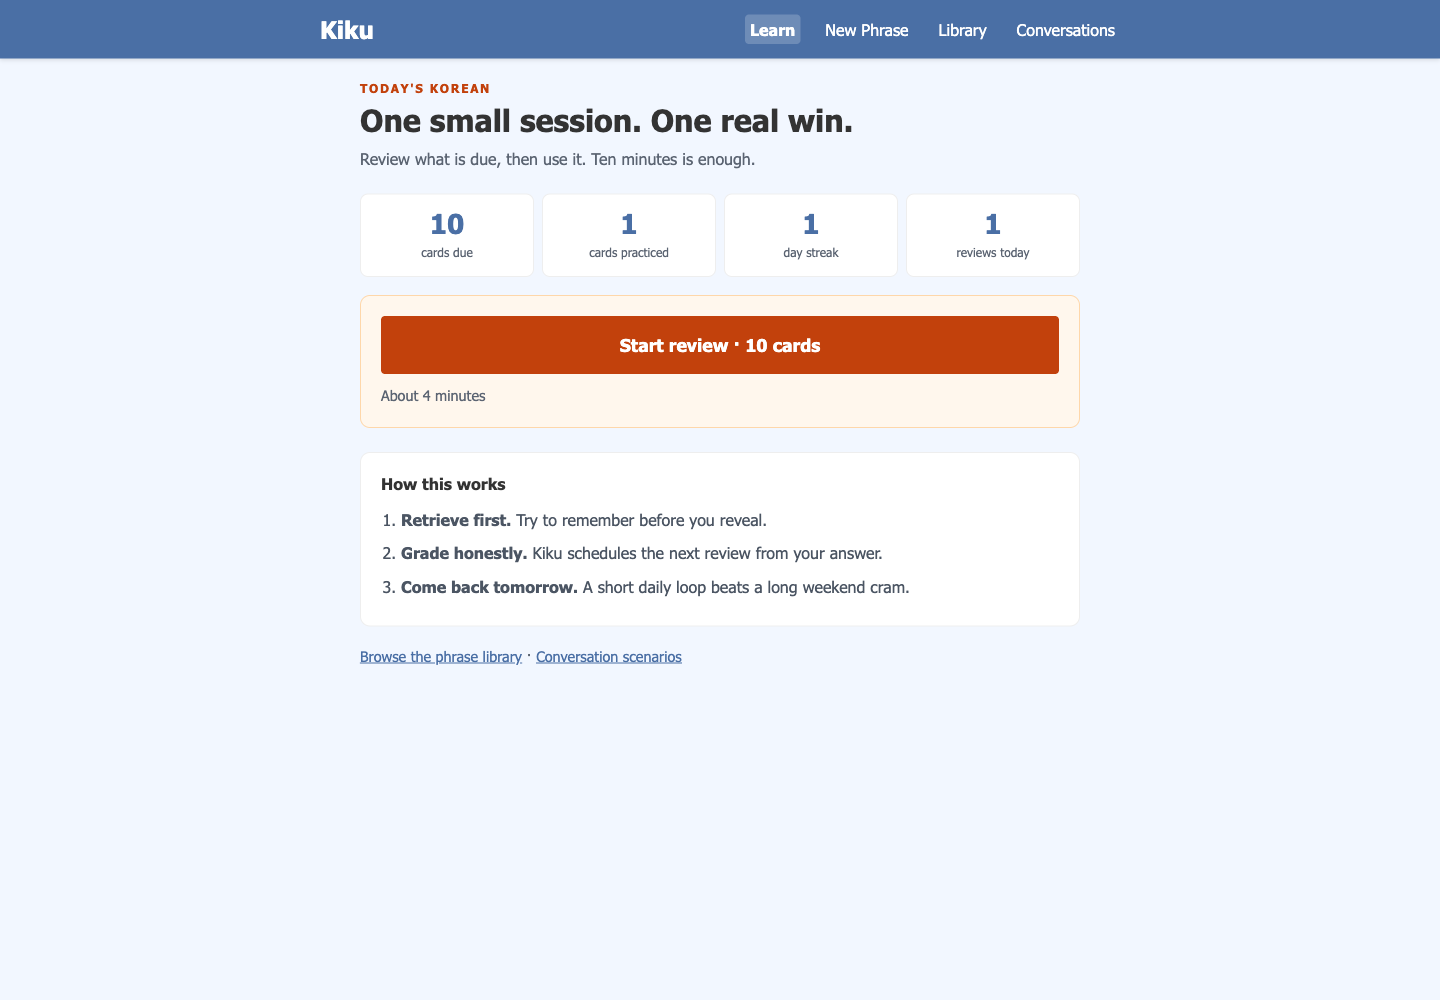
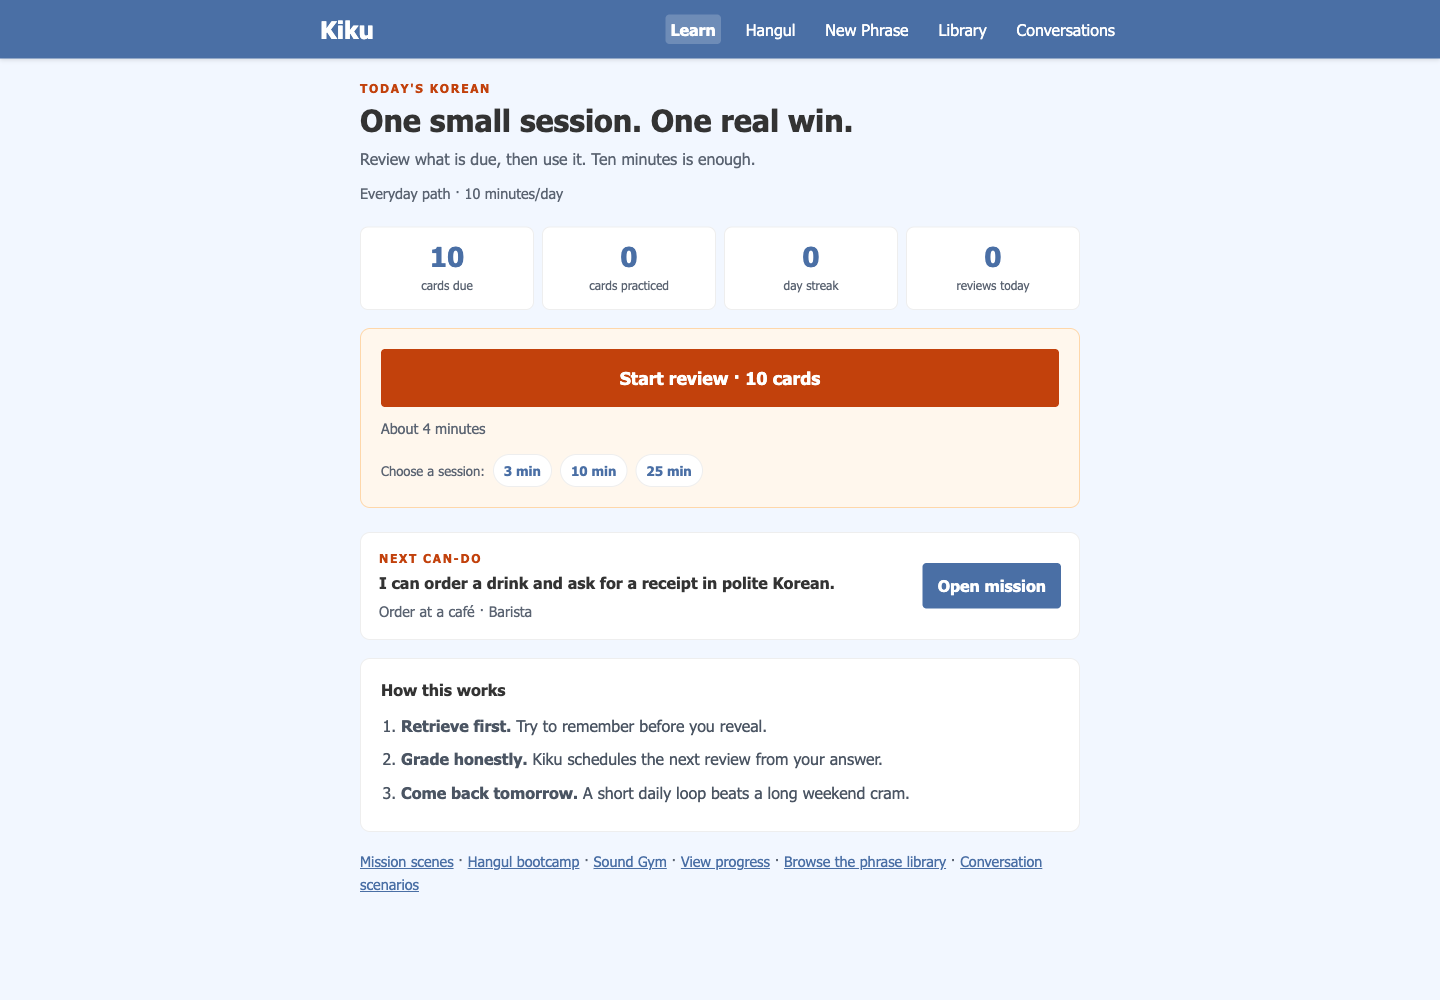
feat: add time-boxed review sessions
Today offers 3/10/25-minute sessions. The review flow carries a signed session counter, shows cards remaining in the block, and stops at the chosen limit with a session-complete screen.

Keep going resets the block; due cards remain untouched. Review-first ordering and the 10-new-card daily cap still apply. Adds config, tests, docs, and an updated Today screenshot. 180 tests pass.

diff --git a/app/templates/review_session_complete.html b/app/templates/review_session_complete.html
@@ -1,0 +1,44 @@
+{% extends "base.html" %}
+{% block title %} - Session complete{% endblock %}
+{% block content %}
+<div class="learn learn-done">
+  <p class="learn-eyebrow">Session complete</p>
+  <h2>That's a real session.</h2>
+  <p class="learn-sub">
+    You finished {{ count }} card{% if count != 1 %}s{% endif %} in your
+    {{ mode }}-minute block. Stopping on time is part of the method.
+  </p>
+
+  <div class="learn-stats" aria-label="Learning summary">
+    <div class="learn-stat">
+      <b>{{ summary.reviews_today }}</b>
+      <span>reviews today</span>
+    </div>
+    <div class="learn-stat">
+      <b>{{ summary.due }}</b>
+      <span>cards still due</span>
+    </div>
+    <div class="learn-stat">
+      <b>{{ summary.streak }}</b>
+      <span>day streak</span>
+    </div>
+  </div>
+
+  <div class="learn-primary">
+    {% if summary.next_due_human %}
+    <p class="learn-meta">Next review {{ summary.next_due_human }}.</p>
+    {% endif %}
+    <a class="btn btn-primary btn-large" href="{{ url_for('learn.today') }}">
+      Back to Today
+    </a>
+  </div>
+
+  <p class="learn-library-link">
+    {% if summary.due %}
+    <a href="{{ url_for('learn.review', continue=1) }}">Keep going</a>
+    <span aria-hidden="true">·</span>
+    {% endif %}
+    <a href="{{ url_for('learn.progress') }}">View progress</a>
+  </p>
+</div>
+{% endblock %}

diff --git a/app/static/css/style.css b/app/static/css/style.css
@@ -906,6 +906,34 @@ progress {
   color: #1e40af;
 }
 
+.session-modes {
+  display: flex;
+  flex-wrap: wrap;
+  align-items: center;
+  gap: 8px;
+  margin-top: 14px;
+  font-size: 0.82rem;
+  color: #5b6472;
+}
+
+.session-modes a {
+  display: inline-block;
+  padding: 5px 10px;
+  border-radius: 999px;
+  border: 1px solid var(--grey);
+  background: white;
+  color: var(--primary);
+  text-decoration: none;
+  font-weight: 600;
+}
+
+.session-modes a:hover,
+.session-modes a:focus-visible {
+  border-color: var(--primary);
+  outline: 3px solid var(--focus);
+  outline-offset: 2px;
+}
+
 .learn-done {
   text-align: center;
 }

diff --git a/app/templates/learn_today.html b/app/templates/learn_today.html
@@ -51,6 +51,14 @@
     <p class="learn-meta">Next review {{ summary.next_due_human }}.</p>
     {% endif %}
     {% endif %}
+    {% if summary.due %}
+    <div class="session-modes">
+      <span>Choose a session:</span>
+      {% for mode in session_modes %}
+      <a href="{{ url_for('learn.review', mode=mode) }}">{{ mode }} min</a>
+      {% endfor %}
+    </div>
+    {% endif %}
   </div>
 
   {% if next_mission %}

diff --git a/app/templates/learn_review.html b/app/templates/learn_review.html
@@ -4,7 +4,9 @@
 <div class="review-shell" data-card-id="{{ card.id }}">
   <div class="review-top">
     <a href="{{ url_for('learn.today') }}">← Today</a>
-    <span class="review-count">{{ due_count }} due</span>
+    <span class="review-count">
+      {{ session_remaining }} left · {{ due_count }} due
+    </span>
   </div>
 
   <div class="review-progress">

diff --git a/app/learning/routes.py b/app/learning/routes.py
@@ -10,6 +10,7 @@ from flask import (
     redirect,
     render_template,
     request,
+    session,
     url_for,
 )
 from flask_wtf.csrf import validate_csrf
@@ -83,6 +84,22 @@ def _needs_onboarding(user):
     ) and not user.onboarding_complete
 
 
+def _session_limits():
+    return current_app.config.get(
+        "REVIEW_SESSION_LIMITS", {3: 4, 10: 20, 25: 50}
+    )
+
+
+def _start_review_session(mode):
+    limits = _session_limits()
+    if mode not in limits:
+        mode = 10 if 10 in limits else next(iter(limits))
+    session["review_mode"] = mode
+    session["review_limit"] = limits[mode]
+    session["review_count"] = 0
+    return mode, limits[mode]
+
+
 def _format_next_due(value):
     if value is None:
         return None
@@ -111,6 +128,7 @@ def today():
         user=user,
         next_mission=next_scene(user.id),
         weekly=weekly_recap(user.id),
+        session_modes=sorted(_session_limits()),
     )
 
 
@@ -510,10 +528,31 @@ def review():
     user = _user()
     if _needs_onboarding(user):
         return redirect(url_for("onboarding.welcome"))
+
+    if request.args.get("continue"):
+        session.pop("review_limit", None)
+        session.pop("review_count", None)
+        session.pop("review_mode", None)
+
+    mode = request.args.get("mode", type=int)
+    if mode in _session_limits():
+        _start_review_session(mode)
+    elif "review_limit" not in session:
+        default_mode = user.daily_minutes if user.daily_minutes in _session_limits() else 10
+        _start_review_session(default_mode)
+
+    limit = session.get("review_limit", 20)
+    count = session.get("review_count", 0)
+    if count >= limit:
+        return redirect(url_for("learn.review_complete"))
+
     card = next_due_card(user.id)
     if card is None:
         summary = stats(user.id)
         summary["next_due_human"] = _format_next_due(summary["next_due"])
+        session.pop("review_limit", None)
+        session.pop("review_count", None)
+        session.pop("review_mode", None)
         return render_template("learn_done.html", summary=summary, user=user)
 
     item = card.item
@@ -539,6 +578,9 @@ def review():
         prompt_side=prompt_side,
         answer_side=answer_side,
         due_count=due_count,
+        session_remaining=max(0, limit - count),
+        session_limit=limit,
+        session_mode=session.get("review_mode", user.daily_minutes),
         interval=upcoming_interval(card),
         skill_label=skill_labels.get(card.skill, card.skill.title()),
         type_label=type_labels.get(item.item_type, item.item_type.title()),
@@ -611,4 +653,25 @@ def submit_review(card_id):
         was_new=was_new,
         elapsed_ms=elapsed_ms,
     )
+
+    session["review_count"] = session.get("review_count", 0) + 1
+    if session["review_count"] >= session.get("review_limit", 20):
+        return redirect(url_for("learn.review_complete"))
     return redirect(url_for("learn.review"))
+
+
+@learn.route("/review/complete")
+def review_complete():
+    user = _user()
+    if _needs_onboarding(user):
+        return redirect(url_for("onboarding.welcome"))
+    summary = stats(user.id)
+    summary["next_due_human"] = _format_next_due(summary["next_due"])
+    return render_template(
+        "review_session_complete.html",
+        summary=summary,
+        user=user,
+        mode=session.get("review_mode", user.daily_minutes),
+        limit=session.get("review_limit", 20),
+        count=session.get("review_count", 0),
+    )

diff --git a/tests/test_session_modes.py b/tests/test_session_modes.py
@@ -1,0 +1,42 @@
+"""Time-boxed review sessions."""
+
+from app.models import ReviewCard, ReviewLog
+
+
+def test_today_offers_session_modes(client):
+    response = client.get("/learn")
+
+    assert response.status_code == 200
+    assert b"3 min" in response.data
+    assert b"10 min" in response.data
+    assert b"25 min" in response.data
+
+
+def test_session_stops_at_limit_and_can_continue(app, client):
+    app.config["REVIEW_SESSION_LIMITS"] = {3: 2, 10: 2, 25: 3}
+    client.get("/learn/review?mode=3")
+    with app.app_context():
+        card_ids = [card.id for card in ReviewCard.query.limit(2).all()]
+
+    first = client.post(f"/learn/review/{card_ids[0]}", data={"rating": "3"})
+    second = client.post(f"/learn/review/{card_ids[1]}", data={"rating": "3"})
+
+    assert first.status_code == 302
+    assert second.status_code == 302
+    assert "/review/complete" in second.headers["Location"]
+
+    complete = client.get("/learn/review/complete")
+    assert complete.status_code == 200
+    assert b"Session complete" in complete.data
+    assert b"3-minute block" in complete.data
+
+    blocked = client.get("/learn/review")
+    assert blocked.status_code == 302
+    assert "/review/complete" in blocked.headers["Location"]
+
+    continued = client.get("/learn/review?continue=1")
+    assert continued.status_code == 200
+    assert b"Show answer" in continued.data
+
+    with app.app_context():
+        assert ReviewLog.query.count() == 2

diff --git a/config.py b/config.py
@@ -60,6 +60,7 @@ class Config:
     # Learning-science guardrail: new material is a budget, not a binge.
     NEW_CARDS_PER_DAY = _env_int("NEW_CARDS_PER_DAY", 10)
     ONBOARDING_ENABLED = _env_bool("ONBOARDING_ENABLED", True)
+    REVIEW_SESSION_LIMITS: ClassVar[dict] = {3: 4, 10: 20, 25: 50}
 
     # Speech checks are transcript-based evidence, not a pronunciation grade.
     SPEECH_SCORING_ENABLED = _env_bool("SPEECH_SCORING_ENABLED", True)
@@ -150,6 +151,8 @@ class TestingConfig(Config):
     RATE_LIMIT_ENABLED = False
     REQUIRE_AUTH = False
     ONBOARDING_ENABLED = False
+    # Keep the legacy end-to-end tests able to drain the full seed deck.
+    REVIEW_SESSION_LIMITS: ClassVar[dict] = {3: 100, 10: 100, 25: 100}
     # A file-backed SQLite database keeps every connection pointed at the same
     # schema. Tests override this with a per-test temp file via create_app().
     SQLALCHEMY_DATABASE_URI = os.environ.get(

diff --git a/docs/ROADMAP.md b/docs/ROADMAP.md
@@ -72,8 +72,8 @@
 | P1-02 | User/profile/enrollment models + auth | Platform | User-scoped data; local demo user for dev; session auth | [~] local user + user-scoped cards done; auth pending |
 | P1-03 | Content schema: items, senses, grammar, audio, scenes | Learning | Seed 300 items, 20 scenes; content hash + status | [~] 30 items seeded; scenes pending |
 | P1-04 | FSRS review engine | Learning | One card per (item, skill); due queue; grade route; tests | [~] FSRS-6 engine + server grade route done; JSON API and round-trip persistence tests pending |
-| P1-05 | Daily planner | Learning | 2/10/25-minute plans; review-first; 5–10 new cap | [~] 10-new/day cap + review-first queue done; duration modes pending |
-| P1-06 | Today / Review / You screens | Experience | Mobile-first; keyboard/IME; Korean `lang`; can-do artifact | [~] Today + Review done; You/can-do pending |
+| P1-05 | Daily planner | Learning | 2/10/25-minute plans; review-first; 5–10 new cap | [x] 3/10/25-minute sessions, review-first ordering, 10-new/day cap |
+| P1-06 | Today / Review / You screens | Experience | Mobile-first; keyboard/IME; Korean `lang`; can-do artifact | [x] Today, Review, Progress, session complete, can-do artifacts |
 | P1-07 | Onboarding + first spoken sentence | Experience | Goal/time/experience; local record/playback; account after win | [x] local onboarding + recording; real accounts pending |
 | P1-08 | Hangul bootcamp days 1–7 | Learning/Experience | Read-aloud checks; typing; batchim/liaison drills | [x] 7 lessons, 88 interactive drills; timed typing/fluency coaching next |
 | P1-09 | Can-do + progress model | Learning | Skill map, retention, artifacts; no XP hero metric | [x] skill map, 7-day activity, 7+/30+ delayed-retention signal, dated can-do artifacts; cohort dashboard later |
@@ -158,7 +158,7 @@ P1-09 ─> P3 (adaptive/beta)
 | P0-09 Rate limiter | Platform | done | Thread-safe bounded limiter, per-endpoint, `Retry-After` |
 | P0-10 Errors | Platform | done | 404/415/500, request IDs, no raw exception leakage |
 | P0-11 Headers/auth | Platform | done | CSP, frame/referrer headers, optional basic auth |
-| P0-12 Tests/CI | Quality | done | 178 tests, ruff, empty-DB migration gate |
+| P0-12 Tests/CI | Quality | done | 180 tests, ruff, empty-DB migration gate |
 | P1-02/04/05/06 vertical slice | Learning/Experience | done | Local user, 30 seed items, FSRS review, 10-new/day cap, Today/Review/Progress screens |
 | P1-07 Onboarding + first word | Experience | done | Goal/time/experience/timezone, first spoken 안녕하세요, local recording |
 | P1-08 Hangul days 1–7 | Learning/Experience | done | 7 lessons, 88 drills, mobile tables, Korean font fallback |
@@ -225,3 +225,4 @@ P1-09 ─> P3 (adaptive/beta)
 | 2026-10-19 | Can-do proof: scene completion writes one dated artifact per scene, shown on progress and Today; replay updates rather than duplicates |
 | 2026-10-19 | Weekly recap: 7-day review activity, new cards, can-dos, active days, and a 30-day Good/Easy recall signal on progress and Today |
 | 2026-10-19 | Delayed-retention signal: 7+ and 30+ day recall calculated from real gaps between reviews of the same card, with sample sizes and honest copy |
+| 2026-10-19 | Time-boxed sessions: 3/10/25-minute modes, session complete screen, keep-going reset, and session counters |

diff --git a/README.md b/README.md
@@ -17,7 +17,7 @@ An application for learning Korean that includes both a command-line interface a
 
 - **Onboarding:** `/welcome` captures goal, daily time, experience, and timezone, then teaches a first spoken 안녕하세요 with local-only recording
 - **Hangul bootcamp:** `/learn/hangul` has seven lessons (letters, vowels/blocks, batchim, double batchim, real-world text, connected speech, and a final reading check) with 88 interactive drills
-- **Learn loop:** `/learn` shows what is due, `/learn/review` presents a retrieval card and grades it with FSRS-6, and `/learn/progress` shows practiced cards and recent reviews
+- **Learn loop:** `/learn` shows what is due, `/learn/review` presents a retrieval card and grades it with FSRS-6 in a 3/10/25-minute session, and `/learn/progress` shows practiced cards and recent reviews
 - **Mission scenes:** `/learn/scenes` has four scripted Korean roleplays (café, directions, pharmacy, workplace intro) with tolerant answer matching, hints, resumable progress, voice or typed answers, and a debrief that adds three chunks to the review deck
 - **Can-do proof:** completing a scene creates a dated “I can…” artifact on `/learn/progress` and surfaces the next mission on Today
 - **Weekly recap:** `/learn/progress` shows 7-day review activity, new cards, can-dos, active days, a 30-day Good/Easy recall signal, and 7+/30+ day delayed-retention rates

diff --git a/docs/PROJECT_STATUS.md b/docs/PROJECT_STATUS.md
@@ -10,7 +10,7 @@
 - Saved phrase library with pagination and audio playback
 - Short 2–4 line conversation generation with per-line and merged audio
 - **Onboarding:** goal, daily time, experience, timezone, and a first spoken 안녕하세요 with local-only recording
-- **Learn loop:** `/learn` today view, `/learn/review` retrieval card, 1–4 grading, FSRS-6 scheduling, review log
+- **Learn loop:** `/learn` today view, `/learn/review` retrieval card, 1–4 grading, FSRS-6 scheduling, review log, and time-boxed 3/10/25-minute sessions
 - **Seed deck:** 30 hand-curated Korean items (survival phrases, core nouns, five grammar patterns), one review card per item
 - **Daily new-card cap:** 10 new cards per day; review cards are always prioritized
 - **Hangul bootcamp:** seven lessons (letters, vowels/blocks, batchim, double batchim, signs/menus/numbers, connected speech, final reading check) with 88 interactive drills
@@ -23,7 +23,7 @@
 - **Local single-user mode:** a local `User` row scopes profile, review cards, and logs; real accounts are next
 - CLI translation/TTS tool (`hangul.py`)
 - `flask seed-content`, `flask media-audit`, `flask media-gc`
-- **178 automated tests**, ruff clean, CI with an empty-database migration gate
+- **180 automated tests**, ruff clean, CI with an empty-database migration gate
 
 ## What changed in Phase 0
 
